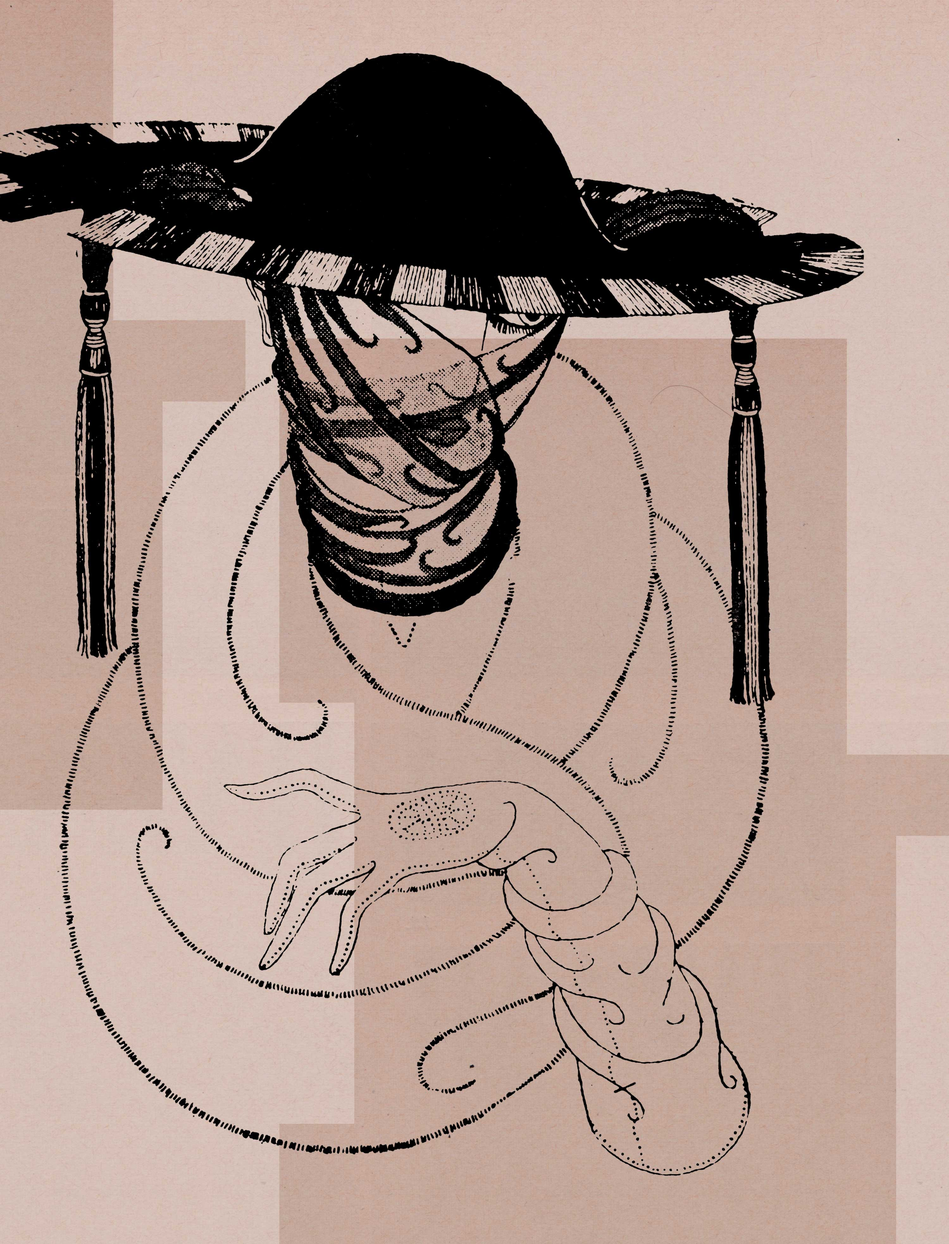
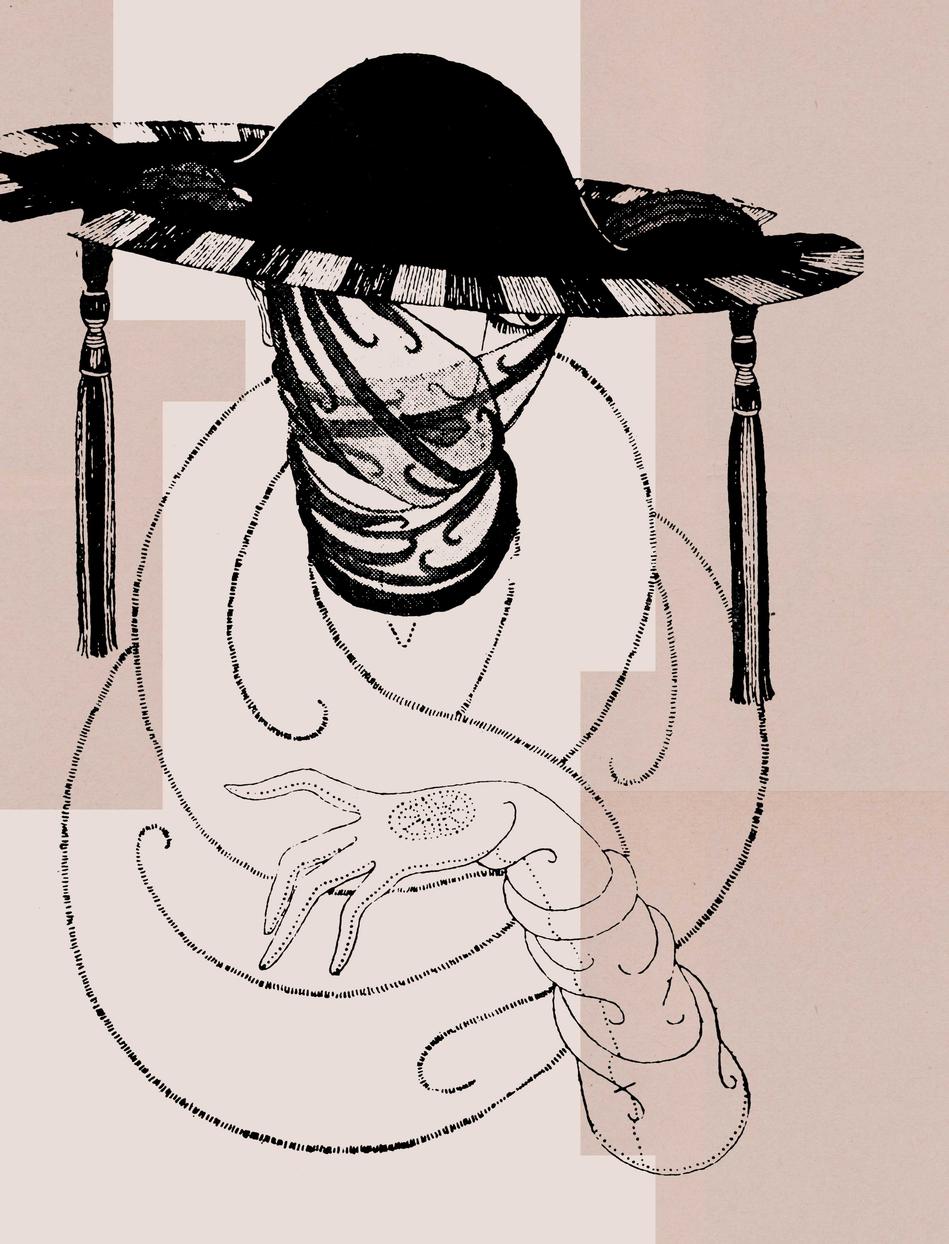
adding matter textures

diff --git a/_site/index.html b/_site/index.html
@@ -61,7 +61,7 @@
             
                 <li><a href="/tags/#1980s">1980s (1)</a></li>
             
-                <li><a href="/tags/#abstract">abstract (1)</a></li>
+                <li><a href="/tags/#abstract">abstract (2)</a></li>
             
                 <li><a href="/tags/#actress">actress (1)</a></li>
             
@@ -76,6 +76,8 @@
                 <li><a href="/tags/#army">army (1)</a></li>
             
                 <li><a href="/tags/#art">art (9)</a></li>
+            
+                <li><a href="/tags/#background">background (1)</a></li>
             
                 <li><a href="/tags/#beautiful">beautiful (1)</a></li>
             
@@ -107,7 +109,7 @@
             
                 <li><a href="/tags/#choreography">choreography (1)</a></li>
             
-                <li><a href="/tags/#collage">collage (3)</a></li>
+                <li><a href="/tags/#collage">collage (4)</a></li>
             
                 <li><a href="/tags/#collections">collections (1)</a></li>
             
@@ -215,6 +217,8 @@
             
                 <li><a href="/tags/#other">other (2)</a></li>
             
+                <li><a href="/tags/#painting">painting (1)</a></li>
+            
                 <li><a href="/tags/#paper">paper (1)</a></li>
             
                 <li><a href="/tags/#pattern">pattern (4)</a></li>
@@ -266,6 +270,8 @@
                 <li><a href="/tags/#svg">svg (1)</a></li>
             
                 <li><a href="/tags/#textiles">textiles (1)</a></li>
+            
+                <li><a href="/tags/#texture">texture (1)</a></li>
             
                 <li><a href="/tags/#tools">tools (1)</a></li>
             
@@ -350,7 +356,7 @@
 
     <div class="header">
             
-                <a href="/2024/erte/" rel="bookmark" title="Permanent Link to /2024/erte/">Just add more a little detail... (Erté)</a>
+                <a href="/2024/erte/" rel="bookmark" title="Permanent Link to /2024/erte/">Just little more detail (Erté)</a>
             
 
 		</div>

diff --git a/_site/about/index.html b/_site/about/index.html
@@ -79,7 +79,7 @@
             
                 <li><a href="/tags/#1980s">1980s (1)</a></li>
             
-                <li><a href="/tags/#abstract">abstract (1)</a></li>
+                <li><a href="/tags/#abstract">abstract (2)</a></li>
             
                 <li><a href="/tags/#actress">actress (1)</a></li>
             
@@ -94,6 +94,8 @@
                 <li><a href="/tags/#army">army (1)</a></li>
             
                 <li><a href="/tags/#art">art (9)</a></li>
+            
+                <li><a href="/tags/#background">background (1)</a></li>
             
                 <li><a href="/tags/#beautiful">beautiful (1)</a></li>
             
@@ -125,7 +127,7 @@
             
                 <li><a href="/tags/#choreography">choreography (1)</a></li>
             
-                <li><a href="/tags/#collage">collage (3)</a></li>
+                <li><a href="/tags/#collage">collage (4)</a></li>
             
                 <li><a href="/tags/#collections">collections (1)</a></li>
             
@@ -233,6 +235,8 @@
             
                 <li><a href="/tags/#other">other (2)</a></li>
             
+                <li><a href="/tags/#painting">painting (1)</a></li>
+            
                 <li><a href="/tags/#paper">paper (1)</a></li>
             
                 <li><a href="/tags/#pattern">pattern (4)</a></li>
@@ -284,6 +288,8 @@
                 <li><a href="/tags/#svg">svg (1)</a></li>
             
                 <li><a href="/tags/#textiles">textiles (1)</a></li>
+            
+                <li><a href="/tags/#texture">texture (1)</a></li>
             
                 <li><a href="/tags/#tools">tools (1)</a></li>
             

diff --git a/projects/_posts/2020-12-01-matter.md b/projects/_posts/2020-12-01-matter.md
@@ -1,0 +1,79 @@
+---
+layout: post
+alt: Matter Tex
+title: "Matter Textures"
+date: 2020-12-01
+artist: "Kapor"
+loc: 
+author: 
+year: 
+category: 
+link: http://www.aaronkapor.com
+tags: [abstract, texture, collage, painting, background]
+image: thumbs/2020_matter.jpg
+hidden: false
+permalink:
+
+---
+
+
+
+<div class="post_image_rounded">
+	<a href="{{ site.baseurl }}/images/posts/2020_matter/002.jpg" target="_blank">
+	<img src="{{ site.baseurl }}/images/posts/2020_matter/002.jpg" alt="lulldull"></a>
+</div>
+
+<div class="post_image_rounded">
+	<a href="{{ site.baseurl }}/images/posts/2020_matter/003.jpg" target="_blank">
+	<img src="{{ site.baseurl }}/images/posts/2020_matter/003.jpg" alt="lulldull"></a>
+</div>
+
+<div class="post_image_rounded">
+	<a href="{{ site.baseurl }}/images/posts/2020_matter/004.jpg" target="_blank">
+	<img src="{{ site.baseurl }}/images/posts/2020_matter/004.jpg" alt="lulldull"></a>
+</div>
+
+<div class="post_image_rounded">
+	<a href="{{ site.baseurl }}/images/posts/2020_matter/005.jpg" target="_blank">
+	<img src="{{ site.baseurl }}/images/posts/2020_matter/005.jpg" alt="lulldull"></a>
+</div>
+
+<div class="post_image_rounded">
+	<a href="{{ site.baseurl }}/images/posts/2020_matter/001.jpg" target="_blank">
+	<img src="{{ site.baseurl }}/images/posts/2020_matter/001.jpg" alt="lulldull"></a>
+</div>
+
+<div class="post_image_rounded">
+	<a href="{{ site.baseurl }}/images/posts/2020_matter/006.jpg" target="_blank">
+	<img src="{{ site.baseurl }}/images/posts/2020_matter/006.jpg" alt="lulldull"></a>
+</div>
+
+<div class="post_image_rounded">
+	<a href="{{ site.baseurl }}/images/posts/2020_matter/007.jpg" target="_blank">
+	<img src="{{ site.baseurl }}/images/posts/2020_matter/007.jpg" alt="lulldull"></a>
+</div>
+
+<div class="post_image_rounded">
+	<a href="{{ site.baseurl }}/images/posts/2020_matter/008.jpg" target="_blank">
+	<img src="{{ site.baseurl }}/images/posts/2020_matter/008.jpg" alt="lulldull"></a>
+</div>
+
+<div class="post_image_rounded">
+	<a href="{{ site.baseurl }}/images/posts/2020_matter/009.jpg" target="_blank">
+	<img src="{{ site.baseurl }}/images/posts/2020_matter/009.jpg" alt="lulldull"></a>
+</div>
+
+<div class="post_image_rounded">
+	<a href="{{ site.baseurl }}/images/posts/2020_matter/010.jpg" target="_blank">
+	<img src="{{ site.baseurl }}/images/posts/2020_matter/010.jpg" alt="lulldull"></a>
+</div>
+
+<div class="post_image_rounded">
+	<a href="{{ site.baseurl }}/images/posts/2020_matter/011.jpg" target="_blank">
+	<img src="{{ site.baseurl }}/images/posts/2020_matter/011.jpg" alt="lulldull"></a>
+</div>
+
+<div class="post_image_rounded">
+	<a href="{{ site.baseurl }}/images/posts/2020_matter/012.jpg" target="_blank">
+	<img src="{{ site.baseurl }}/images/posts/2020_matter/012.jpg" alt="lulldull"></a>
+</div>

diff --git a/projects/_posts/2020-11-10-shadow.md b/projects/_posts/2020-11-10-shadow.md
@@ -1,7 +1,7 @@
 ---
 layout: post
 alt: Shadow play
-title: "Mpre Hand Shadows"
+title: "More Hand Shadows"
 date: 2020-11-10
 artist: "Henry Bursill"
 loc: 

diff --git a/projects/_posts/2024-08-05-erte.md b/projects/_posts/2024-08-05-erte.md
@@ -1,6 +1,6 @@
 ---
 layout: post
-title: Just add more a little detail...
+title: Just little more detail
 date: 2024-08-05
 artist: "Erté"
 loc: 
